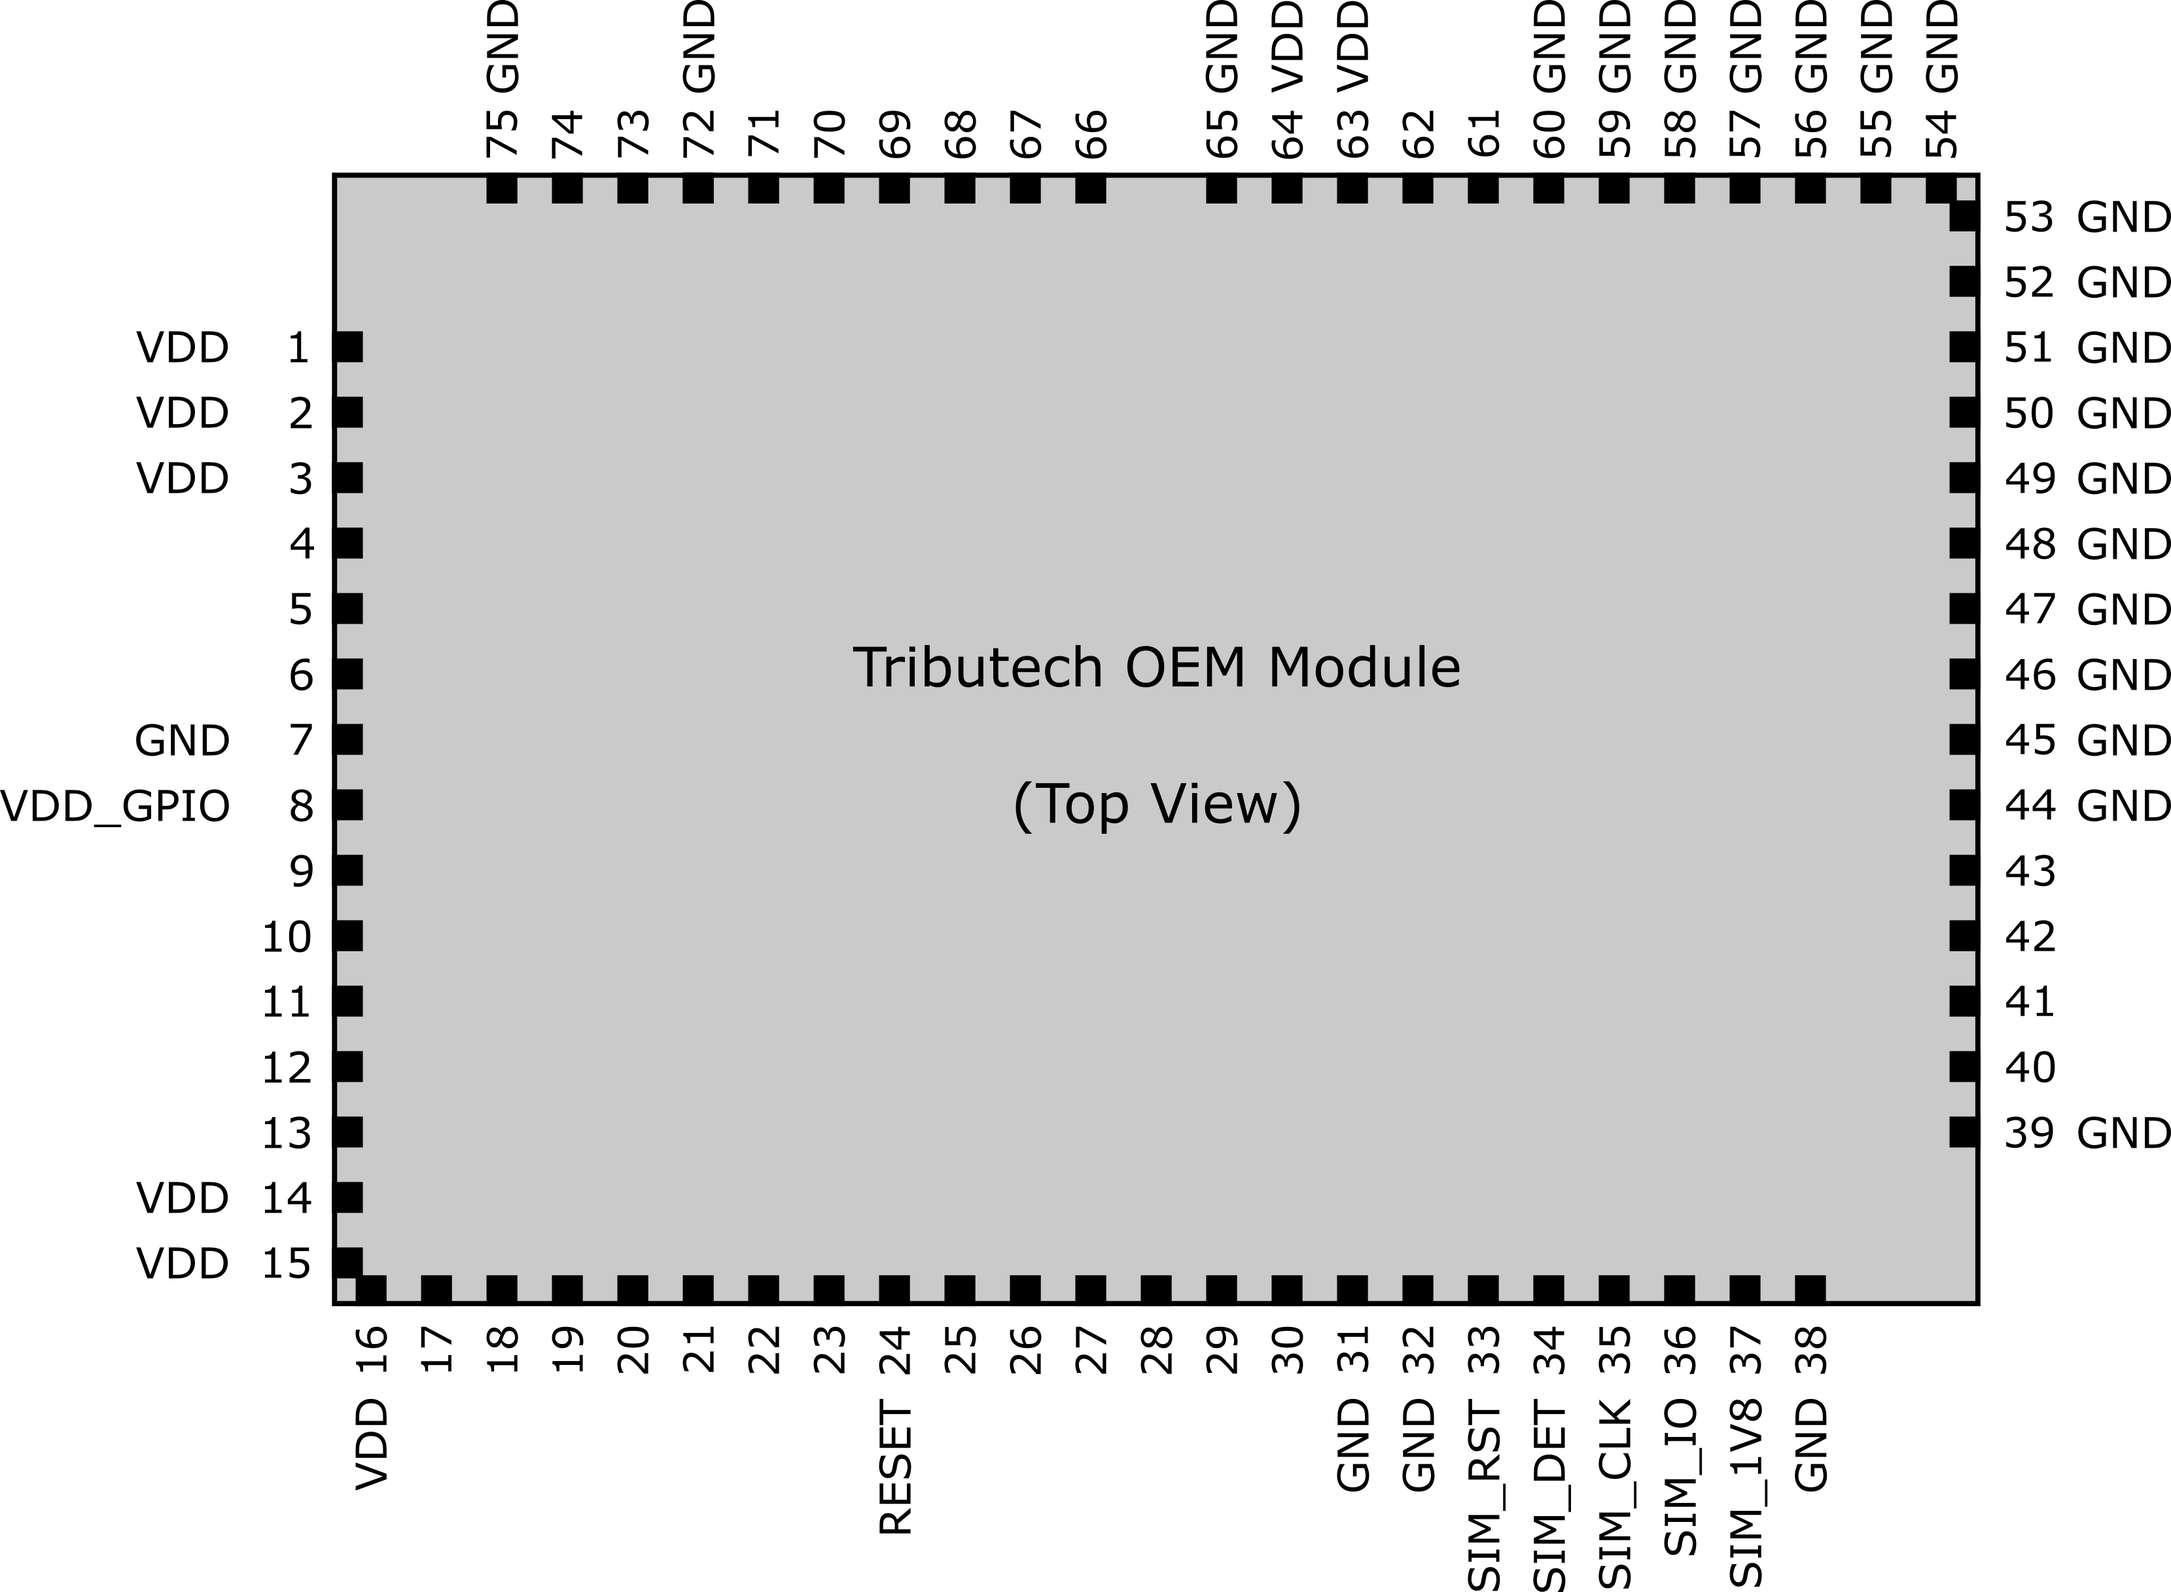
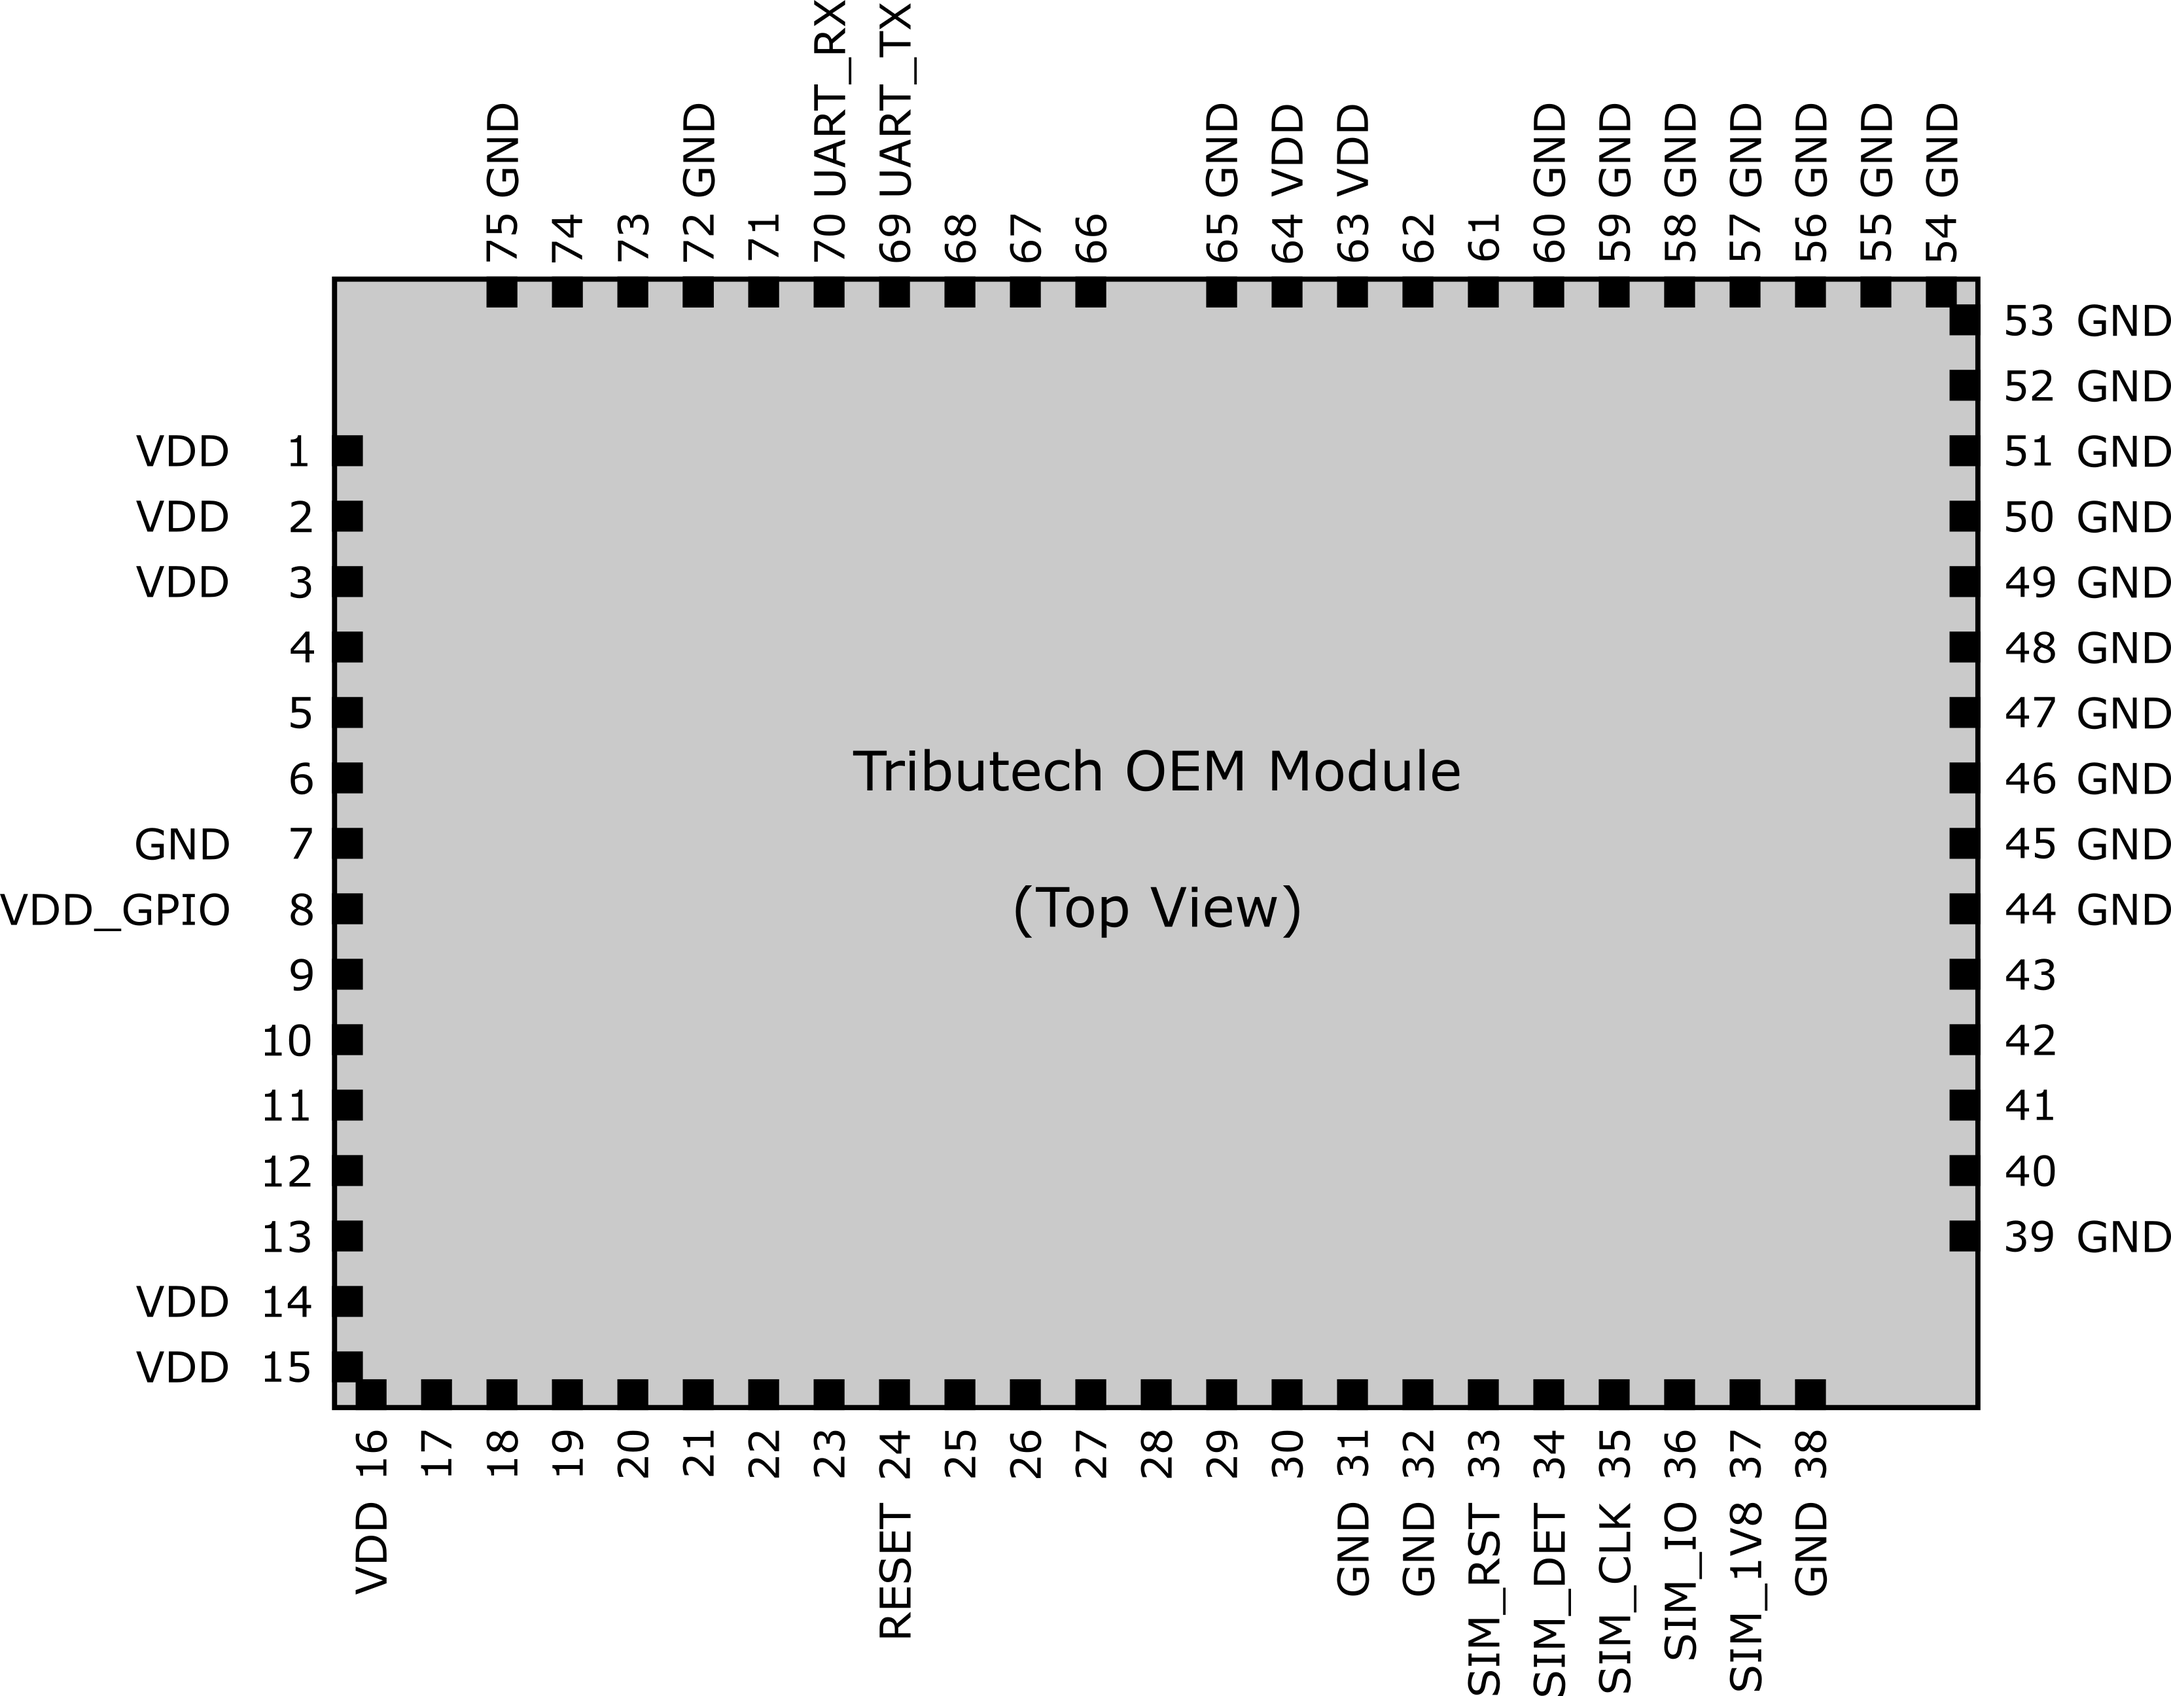
add uart rx and tx to hardware design guideline

diff --git a/docs/oem_module/hardware_design_guideline.md b/docs/oem_module/hardware_design_guideline.md
@@ -48,7 +48,10 @@ To be able to work with the Tributech OEM module certain safety precautions must
 | 61-62 | Reserved | I/O |  |  | Do not connect. Reserved for future use. |
 | 63-64 | VDD | I | Main Power Supply | Vmax = 5.5V<br></br>Vmin = 3.0V<br></br>Vnom = 3.3V |  |
 | 65 | GND | I |  |  | Ground |
-| 66-71 | Reserved | I/O |  |  | Do not connect. Reserved for future use. |
+| 66-68 | Reserved | I/O |  |  | Do not connect. Reserved for future use. |
+| 69 | UART_RX | I | UART receive pin of the OEM | The logic level depends on the voltage supplied to VDD_GPIO | UART_RX connect external TX here |  
+| 70 | UART_TX | O | UART transmit pin of the OEM  | The logic level depends on the voltage supplied to VDD_GPIO | UART_TX connect external RX here |
+| 71 | Reserved | I/O | | | Do not connect. Reserved for future use.|
 | 72 | GND | I |  |  | Ground |
 | 73-74 | Reserved | I/O |  |  | Do not connect. Reserved for future use. |
 | 75 | GND | I |  |  | Ground |

diff --git a/versioned_docs/version-2.0.0/oem_module/hardware_design_guideline.md b/versioned_docs/version-2.0.0/oem_module/hardware_design_guideline.md
@@ -48,7 +48,10 @@ To be able to work with the Tributech OEM module certain safety precautions must
 | 61-62 | Reserved | I/O |  |  | Do not connect. Reserved for future use. |
 | 63-64 | VDD | I | Main Power Supply | Vmax = 5.5V<br></br>Vmin = 3.0V<br></br>Vnom = 3.3V |  |
 | 65 | GND | I |  |  | Ground |
-| 66-71 | Reserved | I/O |  |  | Do not connect. Reserved for future use. |
+| 66-68 | Reserved | I/O |  |  | Do not connect. Reserved for future use. |
+| 69 | UART_RX | I | UART receive pin of the OEM | The logic level depends on the voltage supplied to VDD_GPIO | UART_RX connect external TX here |  
+| 70 | UART_TX | O | UART transmit pin of the OEM  | The logic level depends on the voltage supplied to VDD_GPIO | UART_TX connect external RX here |
+| 71 | Reserved | I/O | | | Do not connect. Reserved for future use.|
 | 72 | GND | I |  |  | Ground |
 | 73-74 | Reserved | I/O |  |  | Do not connect. Reserved for future use. |
 | 75 | GND | I |  |  | Ground |
